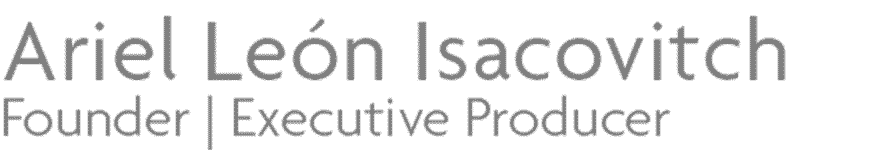
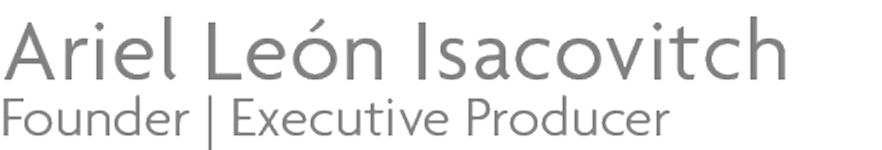
firmas cambios

diff --git a/Ariel-Leon-2.html b/Ariel-Leon-2.html
@@ -89,7 +89,7 @@
 			<!-- InstanceEndEditable -->
               <p style="padding-top: 60px; margin: 0px; letter-spacing: 0.65px; padding-bottom: 4px; font-size: 0px!important; text-transform: capitalize; font-weight:100; color: white !important ">
 			 <!-- InstanceBeginEditable name="region.Name" -->Ariel León Isacovitch Founder | Executive Producer<br/>
-				  <img src="img-firma/Ariel-Leon.png" style="width:100%; text-decoration: none" alt="Ariel León Isacovitch"/>
+				  <img src="img-firma/Ariel-Leon.png" style="width:260px; text-decoration: none" alt="Ariel León Isacovitch"/>
 			<!-- InstanceEndEditable --> </p>
              </a>
 
@@ -117,7 +117,7 @@
               <p style="padding: 0px; margin: 0px; letter-spacing: 0.8px; padding-bottom: 12px; font-size:12px">theroots.tv</p>
               </a>
 				
-				  <a href="https://www.facebook.com/therootsproductions/" style="padding-right: 10px; text-align: left; font-size: 13px; text-decoration: inherit; color: #fdb9a1; font-weight: 500; border-right: 1px solid #fdb9a1;">Fb4</a>
+				  <a href="https://www.facebook.com/therootsproductions/" style="padding-right: 10px; text-align: left; font-size: 13px; text-decoration: inherit; color: #fdb9a1; font-weight: 500; border-right: 1px solid #fdb9a1;">Fb5</a>
 				  <a href="https://www.instagram.com/theroots.tv/" style="padding: 0px 9px 0px 5px; text-align: left; font-size: 13px; text-decoration: inherit; color: #fdb9a1; font-weight: 500; border-right: 1px solid #fdb9a1;">In</a>
 				  <!-- InstanceBeginEditable name="region.whatsapp" -->
 				  <a href="https://wa.me/+56983611666" style="padding: 0px 9px 0px 5px; text-align: left; font-size: 13px; text-decoration: inherit; color: #fdb9a1; font-weight: 500; border-right: 1px solid #fdb9a1;">Wa</a>
